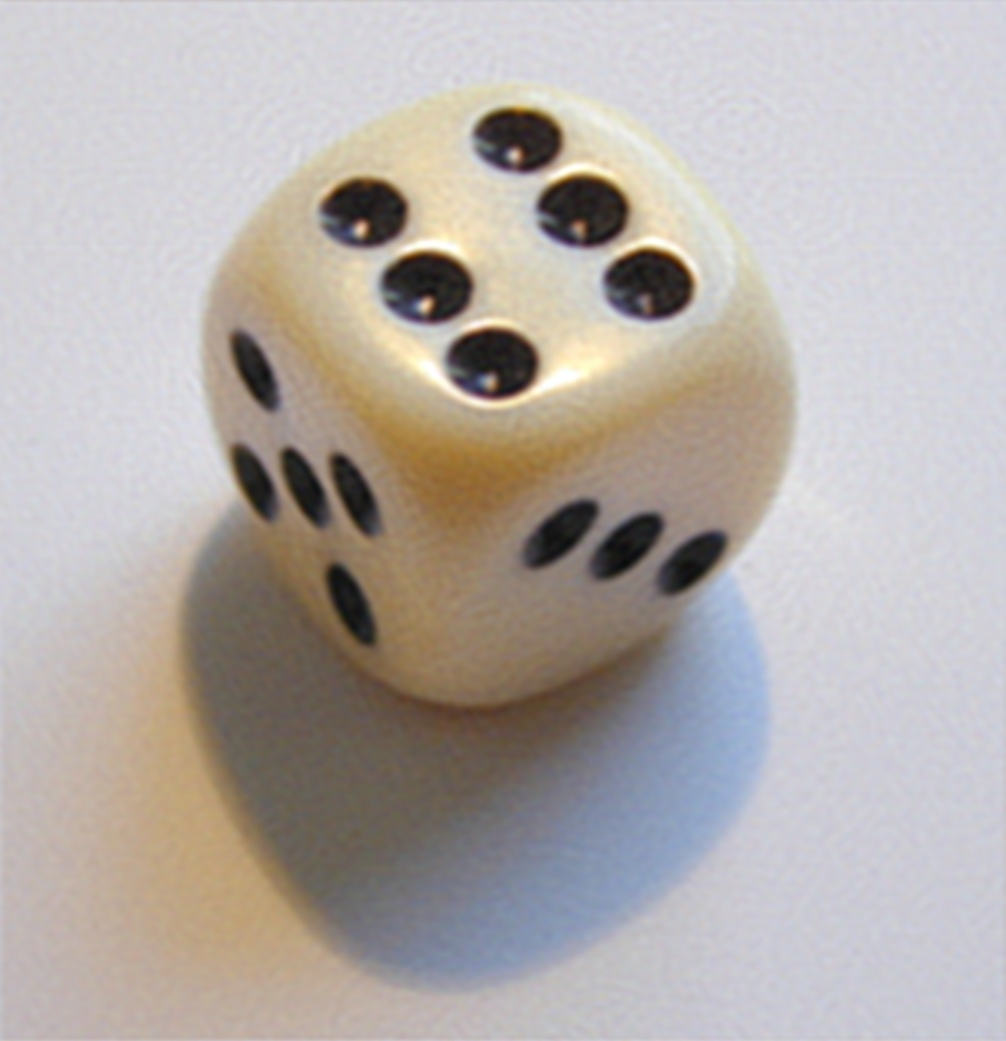
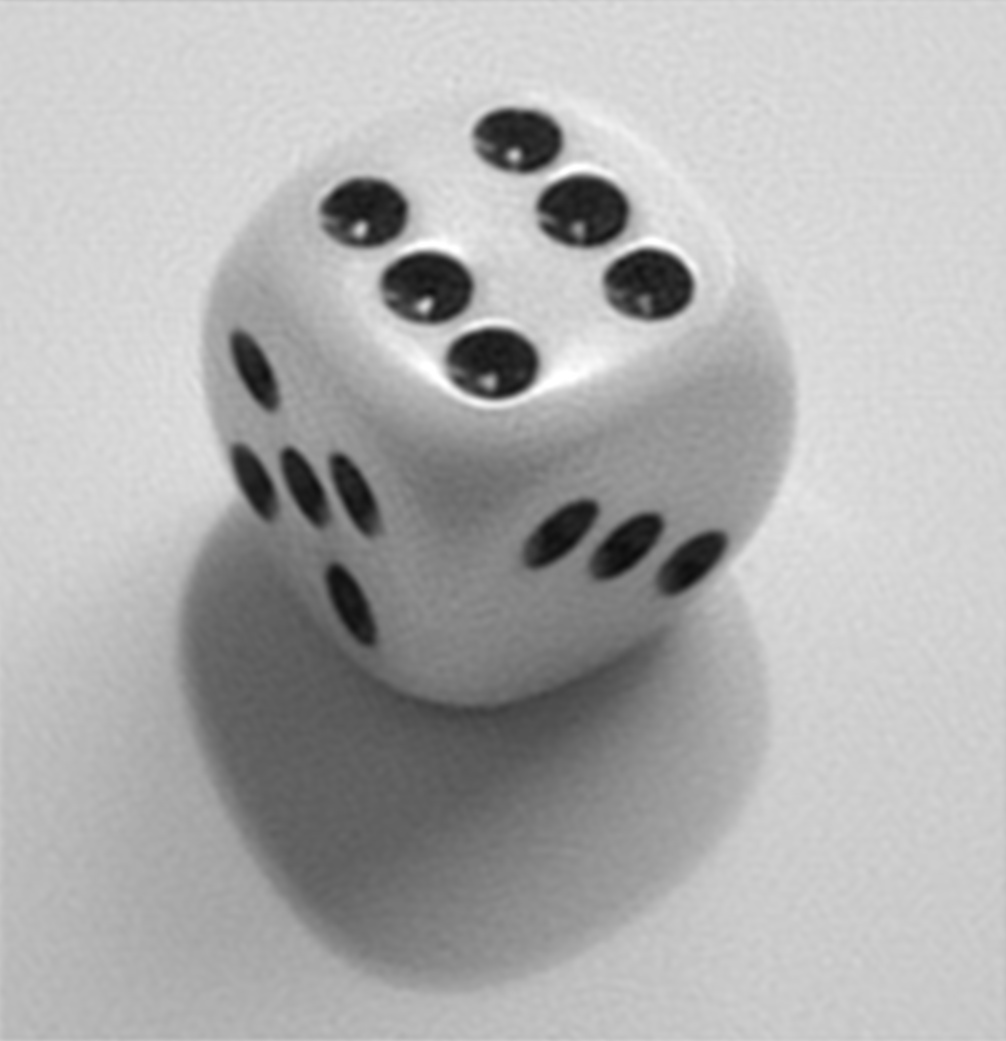
Made imgToFFT to work only on b&w images

diff --git a/code.py b/code.py
@@ -243,16 +243,12 @@ class Jpeg_img:
 
 
 def imgToFFT():
-    img = cv2.imread('dice.jpg')
-    b, g, r = cv2.split(img)
-    b_img = Jpeg_img(b,99)
-    g_img = Jpeg_img(g,99)
-    r_img = Jpeg_img(r,99)
-    b_c = b_img.render()
-    g_c = g_img.render()
-    r_c = r_img.render()
-    img_c = cv2.merge([b_c,g_c,r_c])
-    cv2.imwrite("dice2.jpg", img_c)
+    img = Image.open('dice.jpg')
+    img = img.convert('L')
+    img = np.array(img)
+    fft_img = Jpeg_img(img, 99)
+    fft_img_c = fft_img.render()
+    cv2.imwrite("dice2.jpg", fft_img_c)
 
 
 imgToFFT()
